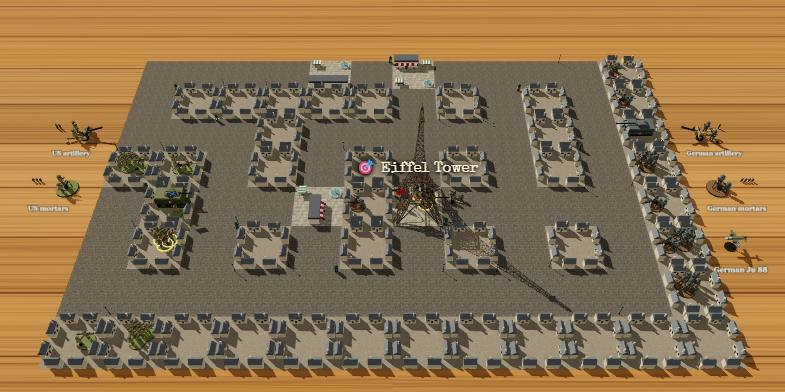
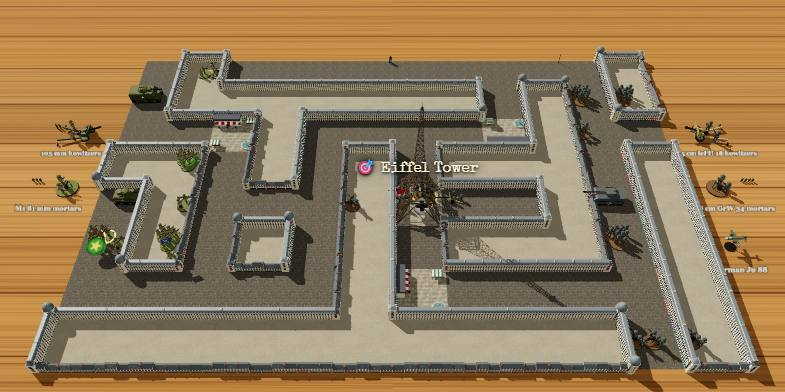
Hedgerow v186: Paris buildings stop tanks and block sight, tanks start on streets, cafes in dead ends and corners, new Paris picture

diff --git a/js/sim.js b/js/sim.js
@@ -357,7 +357,9 @@ const Sim = (() => {
     for (const u of leaders) {
       if (u.garrison || isBunker(u)) continue;
       const options = fields.filter(f => !southers.includes(u) || southOfLine(f)).map(f => ({ f, w: worth(f) })).sort((a, b) => b.w - a.w);
-      const spot = options.find(o => roomFor(st, u, o.f.x, o.f.y));
+      // Tanks start on a street (Steve: Paris), never in a courtyard behind the buildings they can't get through
+      const street = o => !(st.map.blocks && isTank(u)) || tileType(o.f.x, o.f.y) !== 'court';
+      const spot = options.find(o => street(o) && roomFor(st, u, o.f.x, o.f.y)) || options.find(o => roomFor(st, u, o.f.x, o.f.y));
       u.x = spot.f.x; u.y = spot.f.y;
       // (its place in the field straight away, so the next piece's room is judged by where this one really stands: by the
       // hedge towards the enemy as it starts, so a big piece takes a corner block and leaves room, never the whole middle)
@@ -697,9 +699,10 @@ const Sim = (() => {
   // maze that reaches them all, then more streets as the map's design says (PARIS_DESIGNS): further ones between crossing
   // points, some running on off the board, whole boulevards. Every field not a street is a courtyard, and a row of
   // buildings stands on every edge between a courtyard and a street (map.blocks: see hedgeWanted), working as a hedge
-  // (Steve, 2026-11-13: as Stalingrad's ruins). Some crossing points become little squares, each with a café (along one
-  // side, the full length or shorter, or in the middle) and a fountain. The target is always the Eiffel Tower (Steve), in
-  // the centre of the board, on a crossing point so streets reach it
+  // (Steve, 2026-11-13: as Stalingrad's ruins). Some dead ends and corners become little squares, each with a café (in a dead
+  // end or on a corner, along a closed side) and a fountain. The target is always the Eiffel Tower (Steve), in
+  // the centre of the board, on a crossing point so streets reach it. Tanks can't go through the rows of buildings and
+  // nobody sees through them (Steve, 2026-11-13): see cutter and lineOfSight
   const CITY_TOWER = { x: 6, y: 4, name: 'Eiffel Tower' };
   const CITY_SQUARES = 3;
   function parisMap(map, R) {
@@ -738,16 +741,15 @@ const Sim = (() => {
     // Boulevards: whole rows and columns of street, straight across the board
     for (const y of design.rows || []) for (let x = 0; x < COLS; x++) tiles[y][x] = 's';
     for (const x of design.cols || []) for (let y = 0; y < ROWS; y++) tiles[y][x] = 's';
-    // Little squares, away from where the sides start
-    const inner = [];
-    for (const y of ys) for (const x of xs) if (x >= 2 && x <= 8 && !(x === CITY_TOWER.x && y === CITY_TOWER.y)) inner.push({ x, y });
     const features = [];
     // The tower stands on open paving, its legs round the field
     tiles[CITY_TOWER.y][CITY_TOWER.x] = 'q';
     features.push({ x: CITY_TOWER.x, y: CITY_TOWER.y, kind: 'eiffel', areas: [] });
-    for (const p of shuffled(inner).slice(0, CITY_SQUARES)) {
+    // Little squares (Steve, 2026-11-13: cafés never across a road, only in dead ends and on corners), away from where
+    // the sides start and off the board's edge rows, each café against a side with a row of buildings behind it
+    for (const p of shuffled(cafeSpots(tiles)).slice(0, CITY_SQUARES)) {
       tiles[p.y][p.x] = 'q';
-      const areas = cafeAreas(R);
+      const areas = cafeAreas(p.closed, R);
       features.push({ x: p.x, y: p.y, kind: 'cafe', areas });
       features.push({ x: p.x, y: p.y, kind: 'fountain', area: fountainCorner(areas, R) });
     }
@@ -857,14 +859,27 @@ const Sim = (() => {
   }
 
   // Where a café stands in its square (Steve): one way in three each, along a whole side, along part of a side, or in the middle
-  function cafeAreas(R) {
-    const way = R(), side = ['n', 'e', 's', 'w'][Math.floor(R() * 4)], end = Math.floor(R() * 2);
+  // The street fields a café may go in: a dead end (one way out) or a corner (two ways out, at right angles), with the
+  // sides that are closed by buildings. Never in the two columns where each side starts, nor on the board's edge rows
+  const WAYS = { n: [0, -1], e: [1, 0], s: [0, 1], w: [-1, 0] };
+  function cafeSpots(tiles) {
+    const spots = [];
+    for (let y = 1; y < ROWS - 1; y++) for (let x = 2; x < COLS - 2; x++) {
+      if (tiles[y][x] !== 's') continue;
+      const open = Object.keys(WAYS).filter(d => tiles[y + WAYS[d][1]][x + WAYS[d][0]] !== 'k');
+      const straight = (open.includes('n') && open.includes('s')) || (open.includes('e') && open.includes('w'));
+      const deadEnd = open.length === 1, corner = open.length === 2 && !straight;
+      if (deadEnd || corner) spots.push({ x, y, closed: Object.keys(WAYS).filter(d => !open.includes(d)) });
+    }
+    return spots;
+  }
+  // Where the café stands: along one of the closed sides, the full length or its middle and one corner (never the middle
+  // of the field, so the way through stays open)
+  function cafeAreas(closed, R) {
+    const side = closed[Math.floor(R() * closed.length)], full = R() < 0.5, end = Math.floor(R() * 2);
     const row = SIDE_AREAS[side];
-    if (way < 1 / 3) return row;
-    // Part of a side: its middle and one corner
-    if (way < 2 / 3) return end ? [row[0], row[1]] : [row[1], row[2]];
-    // The middle, and the area on one side of it
-    return ['c', side];
+    if (full) return row;
+    return end ? [row[0], row[1]] : [row[1], row[2]];
   }
 
   // A corner for the fountain, clear of the café; and, if the café leaves the middle free, clear of a block for a big piece
@@ -1036,6 +1051,8 @@ const Sim = (() => {
         : { ax: Math.floor(h.x), ay: Math.round(h.y) - 1, bx: Math.floor(h.x), by: Math.round(h.y), t: h.x - Math.floor(h.x), da: 's', db: 'n' };
       if (!inside(across.ax, across.ay) || !inside(across.bx, across.by) || !hedge(st, across.ax, across.ay, across.bx, across.by)) continue;
       // A hedge: blocked, unless one of them stands against this third of it
+      // (Paris's rows of buildings, Steve: nobody sees through or over them, from beside them or not)
+      if (currentMap.blocks) return null;
       const thirds = thirdsAt(across.t);
       const touching = u => touches(u, across.ax, across.ay, across.da, thirds) || touches(u, across.bx, across.by, across.db, thirds);
       const shooterTouches = touching(from), targetTouches = touching(target);
@@ -1154,7 +1171,8 @@ const Sim = (() => {
     let cover = false;
     for (const [ax, ay, bx, by, da, db, third] of ends) {
       if (!inside(ax, ay) || !inside(bx, by) || !hedge(st, ax, ay, bx, by)) continue;
-      // Only from that very corner can it see past a hedge ending there
+      // Only from that very corner can it see past a hedge ending there (never past a Paris building, Steve)
+      if (currentMap.blocks) return 'blocked';
       if (!atPoint(from, vx, vy) && !atPoint(target, vx, vy)) return 'blocked';
       const near = u => touches(u, ax, ay, da, [third]) || touches(u, bx, by, db, [third]);
       if (!near(from) && !near(target)) cover = true;
@@ -1719,7 +1737,8 @@ const Sim = (() => {
 
   // Can a piece step to a field next to it? Tanks can't climb the hedge banks: they need a gap or a lane,
   // unless they carry hedge cutters and drive straight through
-  const cutter = u => isTank(u) && !!PIECES[u.kind].cutter;
+  // (not through Paris's rows of buildings, Steve: map.blocks)
+  const cutter = u => isTank(u) && !!PIECES[u.kind].cutter && !currentMap.blocks;
   // Move a piece. A tank with hedge cutters going through a hedge leaves a gap.
   // Returns what happened to the hedge: 'cut' (driven through), 'climbed' (men clambered over) or ''
   function step(st, u, x, y, assault = false) {

diff --git a/tools/test.js b/tools/test.js
@@ -3723,7 +3723,7 @@ check('a tank goes one field further if it starts, stays and ends on road or lan
 });
 
 check('cafés and barns come in different lengths and places, and a big piece gets past one in the middle', () => {
-  // Over many games of Paris: the full length, shorter, and in the middle
+  // Over many games of Paris: the full length and shorter, never in the middle (Steve: never across the road)
   const seen = { long: 0, short: 0, middle: 0 };
   for (let seed = 1; seed <= 40; seed++) {
     for (const f of Sim.newGame(seed, 'us', 'paris').features) {
@@ -3733,7 +3733,7 @@ check('cafés and barns come in different lengths and places, and a big piece ge
       else seen.short++;
     }
   }
-  assert(seen.long && seen.short && seen.middle, `cafés: ${JSON.stringify(seen)}`);
+  assert(seen.long && seen.short && !seen.middle, `cafés: ${JSON.stringify(seen)}`);
   const farm = Sim.newGame(1, 'us', 'farmland').features.filter(f => f.kind === 'barn');
   assert(farm.some(f => f.areas.includes('c')) && farm.some(f => f.areas.length === 2 && !f.areas.includes('c')) && farm.some(f => f.areas.length === 3), 'the barns are not varied');
   // A big piece can't stop beside a building in the middle, but goes past it; a team can stop there
@@ -4769,6 +4769,39 @@ check('the M5 Stuart (Steve: a small American tank with a round turret) is on Ri
   assert(p.tank && p.cutter && !p.car && p.smallGun && p.extraMove === 1 && p.hard >= 1, 'the Stuart\'s numbers are wrong');
   // Paris: in place of the Sherman 76mm
   assert(!Sim.newGame(1, 'us', 'paris').units.some(u => u.id === 'T2'), 'Paris still has the Sherman 76mm');
+  Sim.newGame(1);
+});
+
+check('Paris (Steve, 2026-11-13): tanks never go through the buildings, nobody sees through them, tanks start on the streets, cafés only in dead ends and on corners', () => {
+  const paris = MAPS.find(m => m.id === 'paris'), usual = paris.design;
+  for (const design of Object.keys(PARIS_DESIGNS)) {
+    paris.design = design;
+    for (let seed = 1; seed <= 15; seed++) {
+      const st = Sim.newGame(seed, 'us', 'paris');
+      // Every tank on a street or square
+      for (const u of st.units.filter(o => Sim.isTank(o) && o.x !== null)) assert(Sim.tileType(u.x, u.y) !== 'court', `${design} seed ${seed}: ${u.name} starts in a courtyard`);
+      // Each café in a dead end or on a corner, along a side closed by buildings, never in the middle
+      for (const f of st.features.filter(o => o.kind === 'cafe')) {
+        const ways = [[0, -1, 'n'], [1, 0, 'e'], [0, 1, 's'], [-1, 0, 'w']].filter(([dx, dy]) => Sim.tileType(f.x + dx, f.y + dy) !== 'court');
+        const straight = ways.length === 2 && ways[0][0] === -ways[1][0] && ways[0][1] === -ways[1][1];
+        assert(ways.length === 1 || (ways.length === 2 && !straight), `${design} seed ${seed}: a café at ${f.x},${f.y} on a through road`);
+        assert(!f.areas.includes('c'), `${design} seed ${seed}: a café in the middle of the road`);
+        const side = ['n', 'e', 's', 'w'].find(d => f.areas.every(a => a.includes(d)));
+        assert(side && !ways.some(w => w[2] === side), `${design} seed ${seed}: a café at ${f.x},${f.y} against an open side`);
+      }
+    }
+  }
+  paris.design = usual;
+  // A tank beside a row of buildings can't go through it; across it, right beside it both sides, nobody sees
+  const st = Sim.newGame(3, 'us', 'paris');
+  const [ax, ay, bx, by] = Object.keys(st.hedges)[0].split(/[^0-9]+/).filter(Boolean).map(Number);
+  const tank = st.units.find(u => u.side === 'us' && Sim.isTank(u)), foe = st.units.find(u => u.side === 'de' && u.kind === 'company');
+  for (const u of st.units) if (u !== tank && u !== foe) u.x = u.y = null;
+  tank.x = ax; tank.y = ay; tank.at = null;
+  assert(!Sim.hasCutters(tank), 'a tank has hedge cutters in Paris');
+  assert(!Sim.moveShootSpots(st, tank).some(p => p.x === bx && p.y === by), 'a tank could drive through a row of buildings');
+  foe.x = bx; foe.y = by; foe.at = null;
+  assert(!Sim.sight(st, tank, foe) && !Sim.sight(st, foe, tank), 'seen through a row of buildings');
   Sim.newGame(1);
 });
 

diff --git a/index.html b/index.html
@@ -152,7 +152,7 @@
 <aside id="panel">
   <div class="brand">
   <div class="top">
-    <h1>HEDGEROW <span id="ver" style="font-size:11px;color:var(--muted);letter-spacing:0">v185</span> <a id="prompts-link" href="prompts.html" target="_blank" rel="noopener" title="How the game was made, prompt by prompt">Prompts</a></h1>
+    <h1>HEDGEROW <span id="ver" style="font-size:11px;color:var(--muted);letter-spacing:0">v186</span> <a id="prompts-link" href="prompts.html" target="_blank" rel="noopener" title="How the game was made, prompt by prompt">Prompts</a></h1>
     <div class="links"><button id="sound-btn" title="Sound on or off">🔊</button><button id="help-btn">How to play</button><button id="new-btn">New game</button></div>
   </div>
   <div id="clock"></div>
@@ -236,16 +236,16 @@
 </div>
 
 <script src="https://cdnjs.cloudflare.com/ajax/libs/three.js/r128/three.min.js"></script>
-<script src="js/data.js?v=185"></script>
-<script src="js/sim.js?v=185"></script>
-<script src="js/sound.js?v=185"></script>
-<script src="js/models.js?v=185"></script>
-<script src="js/fire.js?v=185"></script>
-<script src="js/chute.js?v=185"></script>
-<script src="js/labels.js?v=185"></script>
-<script src="js/scenery.js?v=185"></script>
-<script src="js/board3d.js?v=185"></script>
-<script src="js/ui.js?v=185"></script>
-<script src="js/main.js?v=185"></script>
+<script src="js/data.js?v=186"></script>
+<script src="js/sim.js?v=186"></script>
+<script src="js/sound.js?v=186"></script>
+<script src="js/models.js?v=186"></script>
+<script src="js/fire.js?v=186"></script>
+<script src="js/chute.js?v=186"></script>
+<script src="js/labels.js?v=186"></script>
+<script src="js/scenery.js?v=186"></script>
+<script src="js/board3d.js?v=186"></script>
+<script src="js/ui.js?v=186"></script>
+<script src="js/main.js?v=186"></script>
 </body>
 </html>

diff --git a/js/data.js b/js/data.js
@@ -138,7 +138,7 @@ const MAPS = [
     de: { add: [{ id: 'dac1', kind: 'puma', name: 'Puma', reserve: true }] },
   },
   {
-    id: 'paris', date: '25 August 1944', name: 'Paris', note: 'A tight city, new streets each game: rows of Paris buildings line cobbled streets, with courtyards behind them and little squares, each with a café and a fountain. The rows of buildings work as hedges do: you see over one only from right beside it, men climb through the windows, lining one is cover, and a tank can smash through. The Americans must capture the Eiffel Tower, in the centre of the city. Few tanks: an M5 Stuart light tank in place of the Sherman 76mm, and no Panther; a second bazooka for the Americans, an extra MG 42 for the Germans.',
+    id: 'paris', date: '25 August 1944', name: 'Paris', note: 'A tight city, new streets each game: rows of Paris buildings line cobbled streets, with courtyards behind them, and little squares in dead ends and on corners, each with a café and a fountain. Nobody sees through or over a row of buildings, men climb through the windows, and tanks cannot get through at all: they start on the streets and keep to them. The Americans must capture the Eiffel Tower, in the centre of the city. Few tanks: an M5 Stuart light tank in place of the Sherman 76mm, and no Panther; a second bazooka for the Americans, an extra MG 42 for the Germans.',
     // (Steve, 2026-11-13: not houses in fields any more, but rows of buildings on the edges, as Stalingrad's ruins)
     generated: 'paris', design: 'old', blocks: true,   // (Steve picked the old quarter of the four plans)
     gap: 0, wire: 0,

diff --git a/js/main.js b/js/main.js
@@ -572,7 +572,7 @@ window.Game = (() => {
   function tooltip(e, f) {
     const tip = $('#tip');
     if (!f) { tip.style.display = 'none'; return; }
-    const NAMES = { field: 'Field', orchard: 'Orchard', village: 'Village', hamlet: 'Hamlet', river: 'River', sea: 'Sea', beach: 'Beach', street: 'Street', square: 'Square', yard: 'Railway tracks', bridge: 'Bridge', laneEW: 'Lane', laneNS: 'Lane', crossroads: 'Crossroads' };
+    const NAMES = { field: 'Field', orchard: 'Orchard', village: 'Village', hamlet: 'Hamlet', river: 'River', sea: 'Sea', beach: 'Beach', street: 'Street', square: 'Square', court: 'Courtyard', yard: 'Railway tracks', bridge: 'Bridge', laneEW: 'Lane', laneNS: 'Lane', crossroads: 'Crossroads' };
     const here = Sim.at(st, f.x, f.y);
     // (Dunkirk's 'us' side is British, Steve)
     const usWord = { us: 'US', uk: 'British', su: 'Soviet' }[Sim.armyOf(st)];

diff --git a/CLAUDE.md b/CLAUDE.md
@@ -9,7 +9,7 @@ Local repo `C:\DEV\Repositories\GitHub\hedgerow`, on GitHub as wizzard262/hedger
 - Run `node tools/test.js` before every commit (headless checks of the rules). After changing `ui.js`, `main.js` or `board3d.js`, also run `node tools/check-page.js` (real clicks in a visible browser)
 - After a rules change, run `node tools/sweep.js ""` (150 games with a simple attacking bot, token by token as the page plays; about 4 minutes): with no time limit it plays up to 20 rounds: note its win rate and average rounds, both ways round (as the Americans, and as the Germans against the American computer); doing nothing must never win
 - Bonus battles (Steve, 2026-11-11): `BONUS` in `js/data.js`, outside `CAMPAIGN`; a map with `bonus: true` is in MAPS but not the campaign. Dunkirk is the first: its `evacuate` settings, `names` (the 'us' side is the British), `guns` (renamed guns) and `us.only` / `de.only` (its own armies) are in its MAPS entry; the rules are under "The evacuation" in `js/sim.js` (boats, sailing, lorries, strongpoints, the British computer; the Germans win once one reaches the coast road). A map with `navy` has its artillery as a warship at sea, its name and shells off its bow (Dunkirk, the Normandy beach; no 'us' mortars and no headland on either, Steve 2026-11-12); on both the beach runs on past the top and bottom of the board (`addBeachBeyond` in board3d.js). Stalingrad is the second (Steve, 2026-11-12): `ruins` draws the hedges as ruined walls and rubble lines (`ruinWalls` in board3d.js) and `courtyard` (the Univermag: four plain fields, no walls inside, walls all round, the objective in it); `generated: 'ruins'` (ruinsMap in sim.js) scatters rubble piles and minefields (FEATURES rubble, minefield; MINES); `army: 'su'` makes the 'us' side Soviet (Sim.armyOf, Models.setArmy, the red token); `flip` turns the camera right round (board3d's screenUp/screenRight; the off-board guns mirrored so they sit as usual on the screen). A rifle platoon with `arms: 'smg'` is a section of submachine gunners (SMG); `emplaced` in PIECES never moves but can turn (the 88, dead centre of the crossroads behind the store, looking down the street; `shield` gives it cover from the front, SHIELD_ARC); `atGun` marks the PaK and the 88. `smallGun` in PIECES needs SMALL_GUN more against tanks; small arms only shake a crewed gun (isAtGun) unless it is already shaken. A map's `guns` can rename its bomber too (`Sim.bomberName`: the RAF Blenheim at Dunkirk). Less than one die always rolls one (`dice` in sim.js, Steve 2026-11-12). New pieces can borrow a model with `look` in PIECES until they get their own
-- Paris (Steve, 2026-11-13): `generated: 'paris'` (parisMap in sim.js) cuts streets through a board of courtyards (`k`, 'court') on a plan from PARIS_DESIGNS in data.js (the map's `design`; `?paris=<design>` in the address plays Paris on another; `tools/paris-maps.html` shows them all). `blocks: true` puts a hedge on every edge between a courtyard and a street and nowhere else (hedgeWanted); board3d's `parisWalls` draws them as rows of buildings, one of four looks a row (`Models.parisFront`, `parisCorner`: 'haussmann', 'block' with domed outer corners, 'old', 'boulevard'), and closes the blocks along the board's edge just to look at
+- Paris (Steve, 2026-11-13): `generated: 'paris'` (parisMap in sim.js) cuts streets through a board of courtyards (`k`, 'court') on a plan from PARIS_DESIGNS in data.js (the map's `design`; `?paris=<design>` in the address plays Paris on another; `tools/paris-maps.html` shows them all). `blocks: true` puts a hedge on every edge between a courtyard and a street and nowhere else (hedgeWanted); board3d's `parisWalls` draws them as rows of buildings, one of four looks a row (`Models.parisFront`, `parisCorner`: 'haussmann', 'block' with domed outer corners, 'old', 'boulevard'), and closes the blocks along the board's edge just to look at. In Paris tanks can't go through the rows (`cutter` is off on a `blocks` map) and start on the streets (deploy), nobody sees through a row even from beside it (lineOfSight, cornerHedge), and cafés go only in dead ends and on corners, along a closed side (cafeSpots)
 - Plain JavaScript, classic scripts loaded in order (no modules); three.js r128 from cdnjs
   - `js/data.js` the maps (MAPS: each can change the ground, the pieces, the ammunition and where the sides start) and every number to tune; `js/sim.js` the rules (no DOM); `js/sound.js` the battle sounds (Web Audio, no files); `js/models.js` the 3D models; `js/fire.js` how a burnt-out tank looks (flames, smoke, scorched hull); `js/chute.js` the shape and swing of a parachute coming down (no DOM, tested); `js/scenery.js` what is on the table just to look at (no DOM, no effect on the rules); `js/labels.js` where the red score bubbles go (no DOM); `js/board3d.js` the table, camera and picking; `js/ui.js` the left-hand panel; `js/main.js` start-up, input and the German hour
 - The version number (`#ver` in `index.html`) goes up by 1 with every commit to the game: `git rev-list --count HEAD` + 1. Put the same number on every script link (`js/ui.js?v=2`)

diff --git a/PROMPTS.md b/PROMPTS.md
@@ -1855,6 +1855,14 @@ How the game was made: each prompt, what was built, and the assumptions made.
 - **Four street plans** (PARIS_DESIGNS): Maze (as Paris was), Old quarter (twisting, many dead ends), Grid (mostly straight streets, the odd corner and dead end), Boulevards (two straight boulevards across the board meeting at the tower). `tools/paris-maps.html` shows each in the game with the same seed, and "Play it" opens the game on it (`index.html?paris=grid` and so on). Steve picked **Old quarter**, now Paris's plan (v185)
 - No robot balance runs (Steve's standing wish); the rules tests cover every plan: streets all joined, a row of buildings exactly where a courtyard meets a street, the boulevards straight across
 
+## 317. Paris: buildings stop tanks and block sight; tanks on the streets; cafés in dead ends and corners; a new picture (v186)
+
+- Steve: Paris: tanks cannot move through walls; all block sight completely; tanks all start on the street; do not block roads with cafés, put them in dead ends and corners only. Then: change the Paris thumbnail
+- **Tanks**: no driving through a row of buildings at all (no hedge cutters in Paris), so they keep to the streets; every tank starts on a street or square
+- **Sight**: a row of buildings blocks every line across it, even for pieces right beside it, and past its end at a corner too
+- **Cafés**: only in a dead end (one way out) or on a corner (two ways out at right angles), away from where the sides start and off the board's edge rows, along a side closed by buildings, never in the middle of the field. Three of them as before
+- The map's note says so; hovering a courtyard now says "Courtyard"; the Paris picture in the opening dialog (`assets/maps/paris.jpg`) made again from the new Paris
+
 ## Sessions
 
 | # | Date | Length | What we did |
